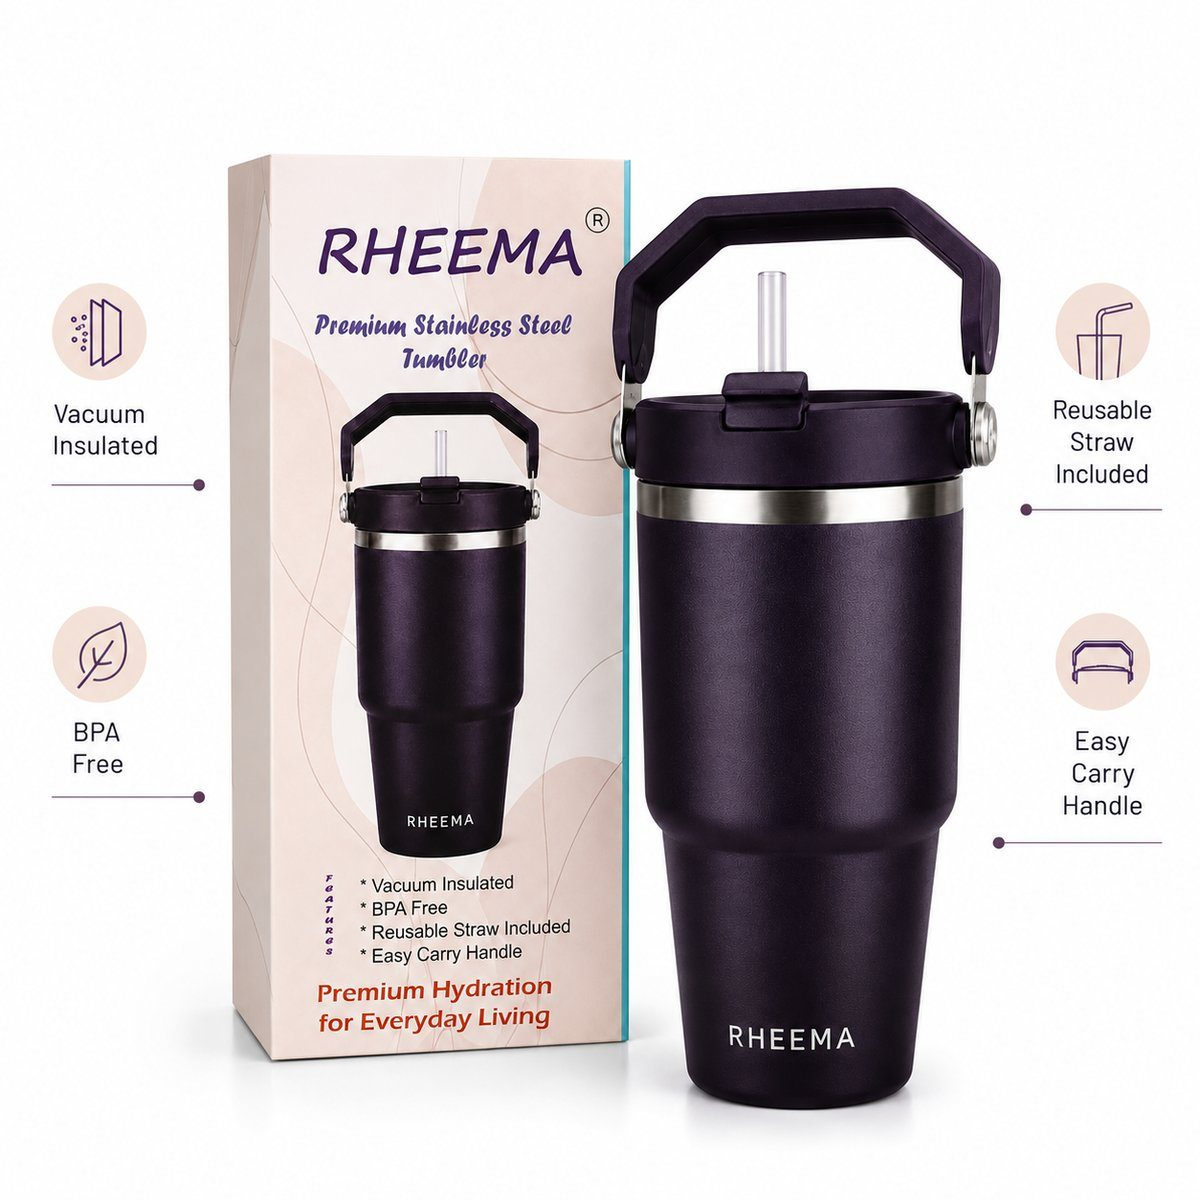
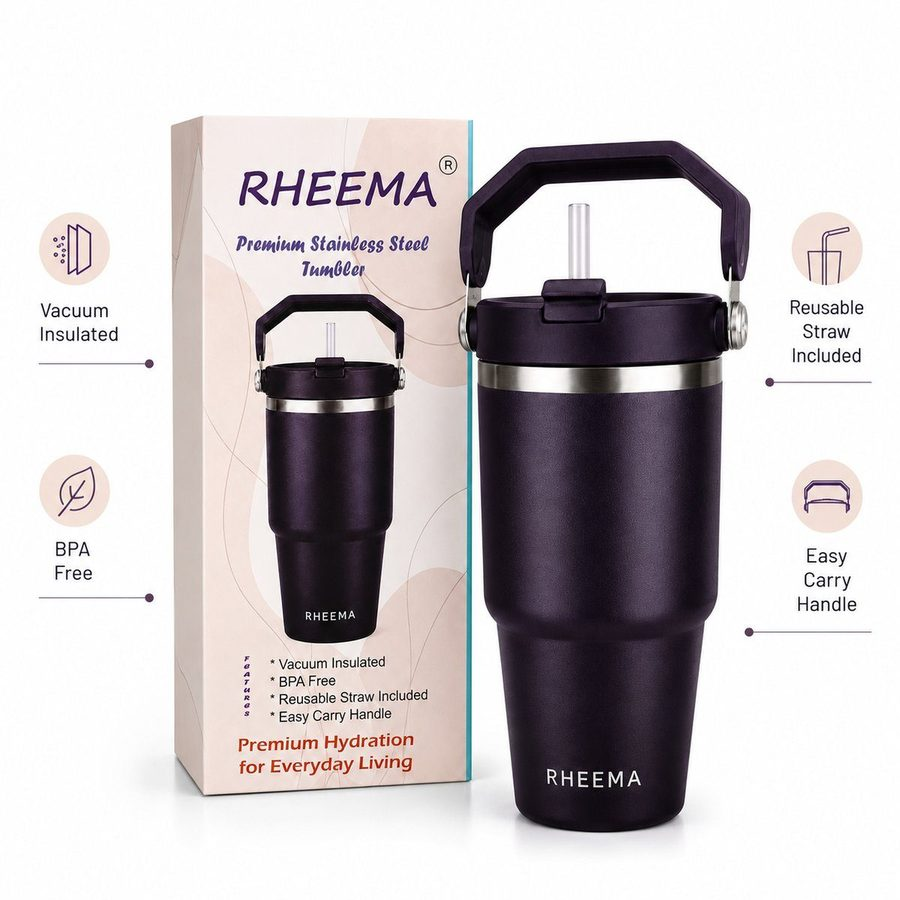
Resize hero tumbler image for speed

diff --git a/index.html b/index.html
@@ -2249,7 +2249,7 @@ footer::before { content: ""; position: absolute; top: 0; left: 0; right: 0; hei
 
       <div class="hero-art" aria-label="RHEEMA tumbler product showcase">
         <div class="hero-tilt-plane" data-tilt data-tilt-max="7">
-          <div class="art-field"><img src="tumbler.jpg" alt="RHEEMA Premium Stainless Steel Tumbler" width="1200" height="1200" loading="eager" fetchpriority="high"></div>
+          <div class="art-field"><img src="tumbler.jpg" alt="RHEEMA Premium Stainless Steel Tumbler" width="900" height="900" loading="eager" fetchpriority="high"></div>
           <div class="art-label"><strong>Hot or cold. For hours.</strong><span>RHEEMA / Featured 01</span></div>
           <span class="tilt-glare" aria-hidden="true"></span>
         </div>
